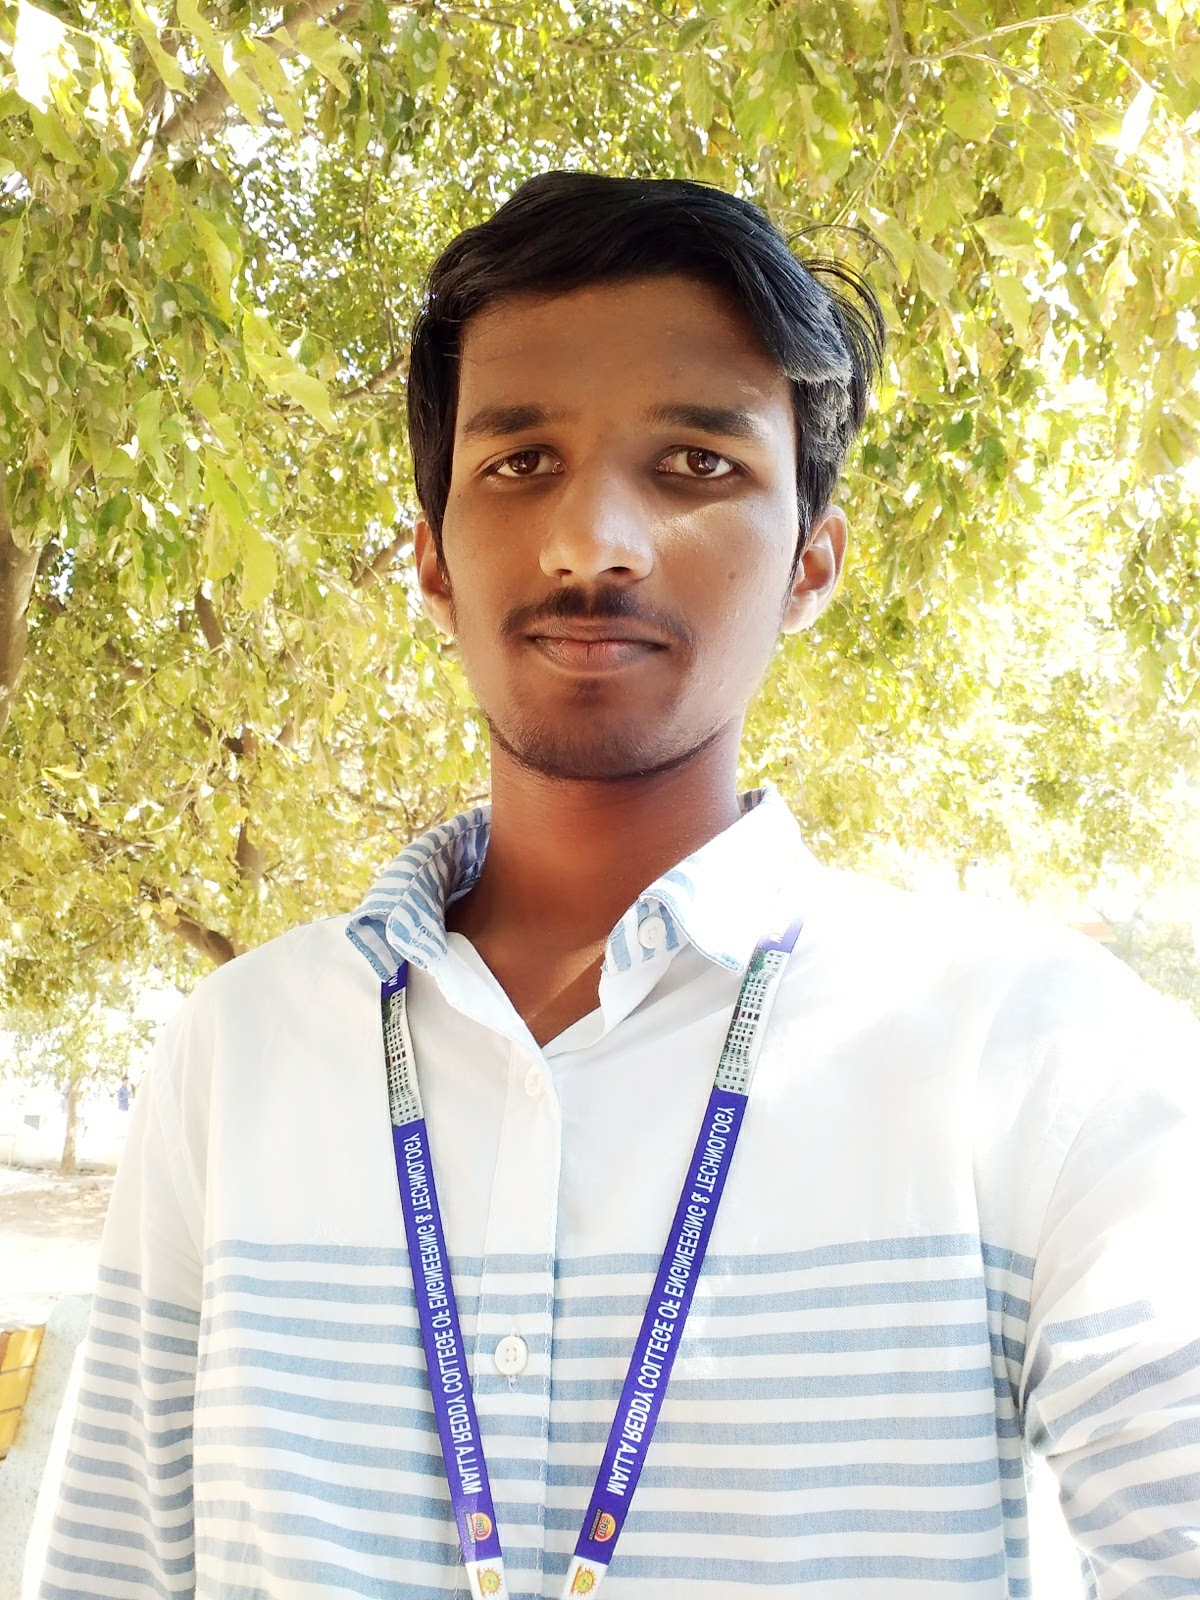
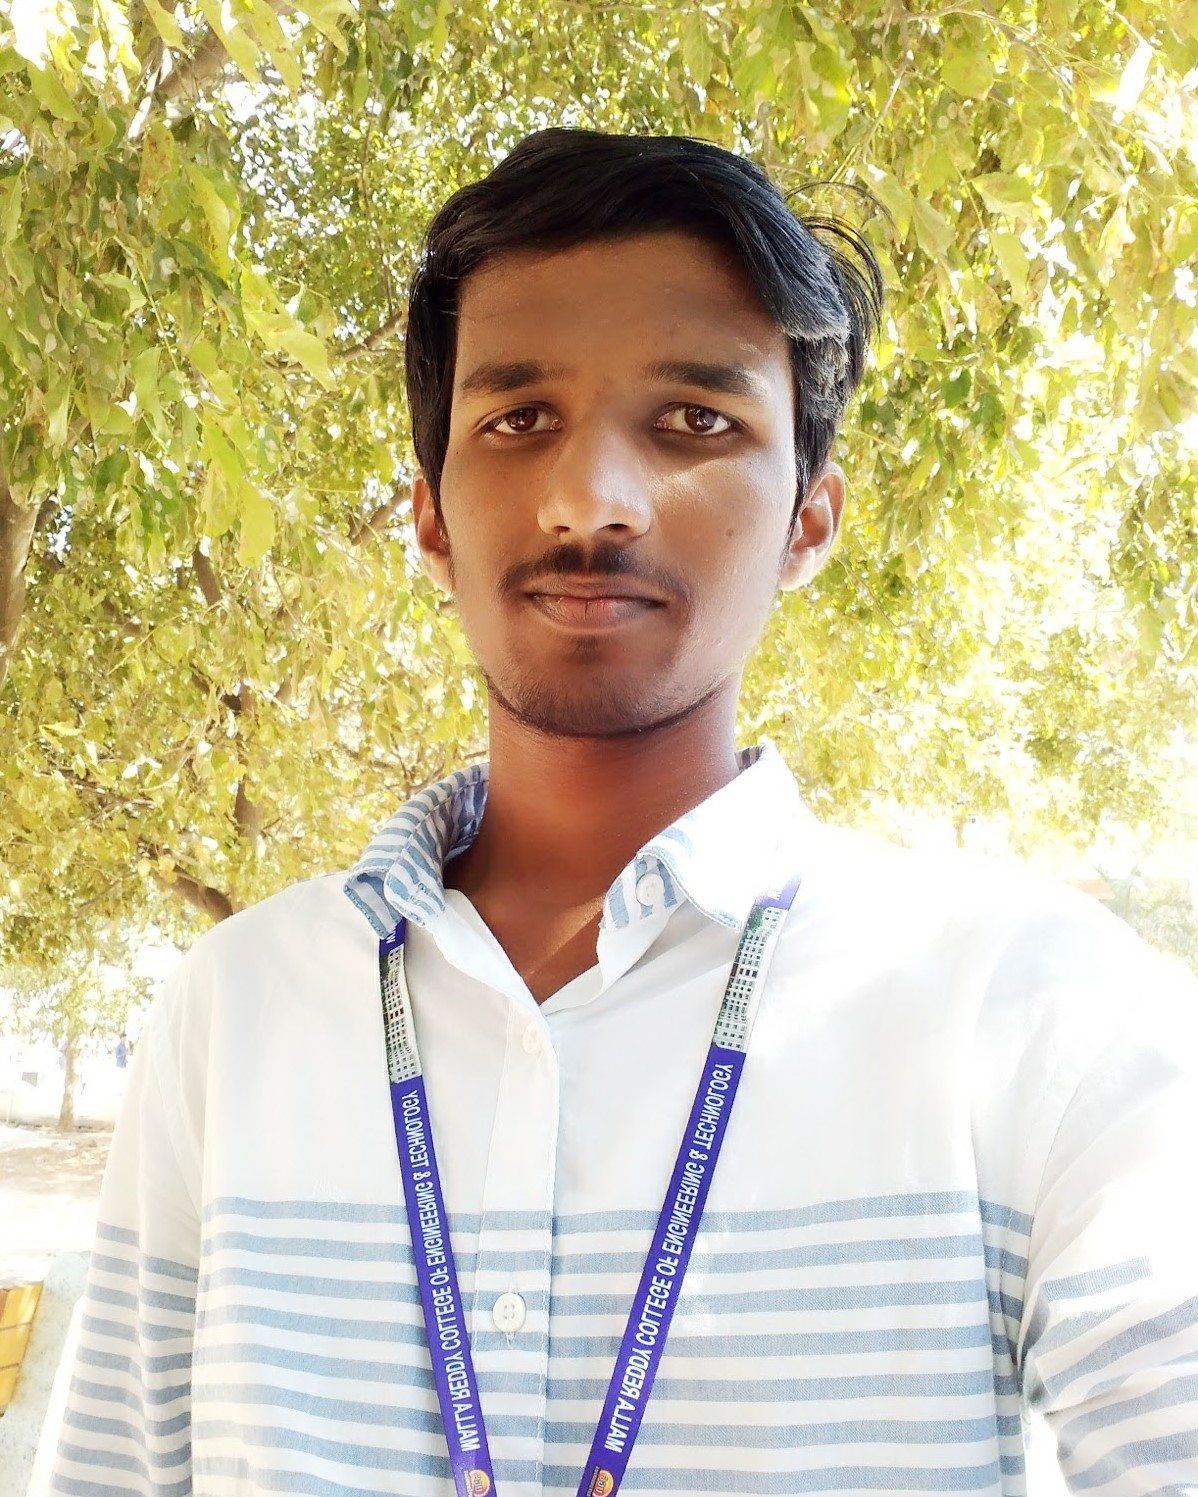
added images in hirefromus page

diff --git a/src/components/HireFromUs/MainPage/index.js b/src/components/HireFromUs/MainPage/index.js
@@ -12,15 +12,20 @@ import {GiMaterialsScience} from "react-icons/gi"
 import {IoIosCloudDone} from "react-icons/io"
 import Header from "../../Homes/Headers";
 import Footer from "../../Homes/Footer";
-
+import roy from '../../Images/roy.png'
+import saicharan from '../../Images/saicharan.jpg'
+import venu from '../../Images/venuprofile.jpg'
+import umar from '../../Images/umarprofile.png'
+import chandana from '../../Images/chandana.jpeg'
+import prashanth from '../../Images/prashanth.png'
 
 const HireFromUsList1=[
-    {id:1,Image:"https://marketplace.canva.com/EAFXS8-cvyQ/1/0/1600w/canva-brown-and-light-brown%2C-circle-framed-instagram-profile-picture-2PE9qJLmPac.jpg",name:"Saicharan",text:"Software Developer"},
-    {id:2,Image:"https://marketplace.canva.com/EAFXS8-cvyQ/1/0/1600w/canva-brown-and-light-brown%2C-circle-framed-instagram-profile-picture-2PE9qJLmPac.jpg",name:"KapilRaj",text:"Mendix developer"},
-    {id:3,Image:"https://marketplace.canva.com/EAFXS8-cvyQ/1/0/1600w/canva-brown-and-light-brown%2C-circle-framed-instagram-profile-picture-2PE9qJLmPac.jpg",name:"Prashanth",text:"Polarion developer"},
-    {id:4,Image:"https://marketplace.canva.com/EAFXS8-cvyQ/1/0/1600w/canva-brown-and-light-brown%2C-circle-framed-instagram-profile-picture-2PE9qJLmPac.jpg",name:"Saicharan",text:"Data Scientist" },
-    {id:5,Image:"https://marketplace.canva.com/EAFXS8-cvyQ/1/0/1600w/canva-brown-and-light-brown%2C-circle-framed-instagram-profile-picture-2PE9qJLmPac.jpg",name:"Saicharan",text:"software developer"},
-    {id:6,Image:"https://marketplace.canva.com/EAFXS8-cvyQ/1/0/1600w/canva-brown-and-light-brown%2C-circle-framed-instagram-profile-picture-2PE9qJLmPac.jpg",name:"Saicharan Gangula",text:"software developer"},
+    {id:1,Image:saicharan,name:"Saicharan",text:"Software Developer"},
+    {id:2,Image:venu,name:"venu",text:"Mendix developer"},
+    {id:3,Image:prashanth,name:"Prashanth",text:"Software Engineer"},
+    {id:4,Image:chandana,name:"Chandana",text:"Data Scientist" },
+    {id:5,Image:roy,name:"Vashini Roy",text:"Senior developer"},
+    {id:6,Image:umar,name:"Umar",text:"Polarion Developer"},
 
    ]
    const HireFromUsList3=[
